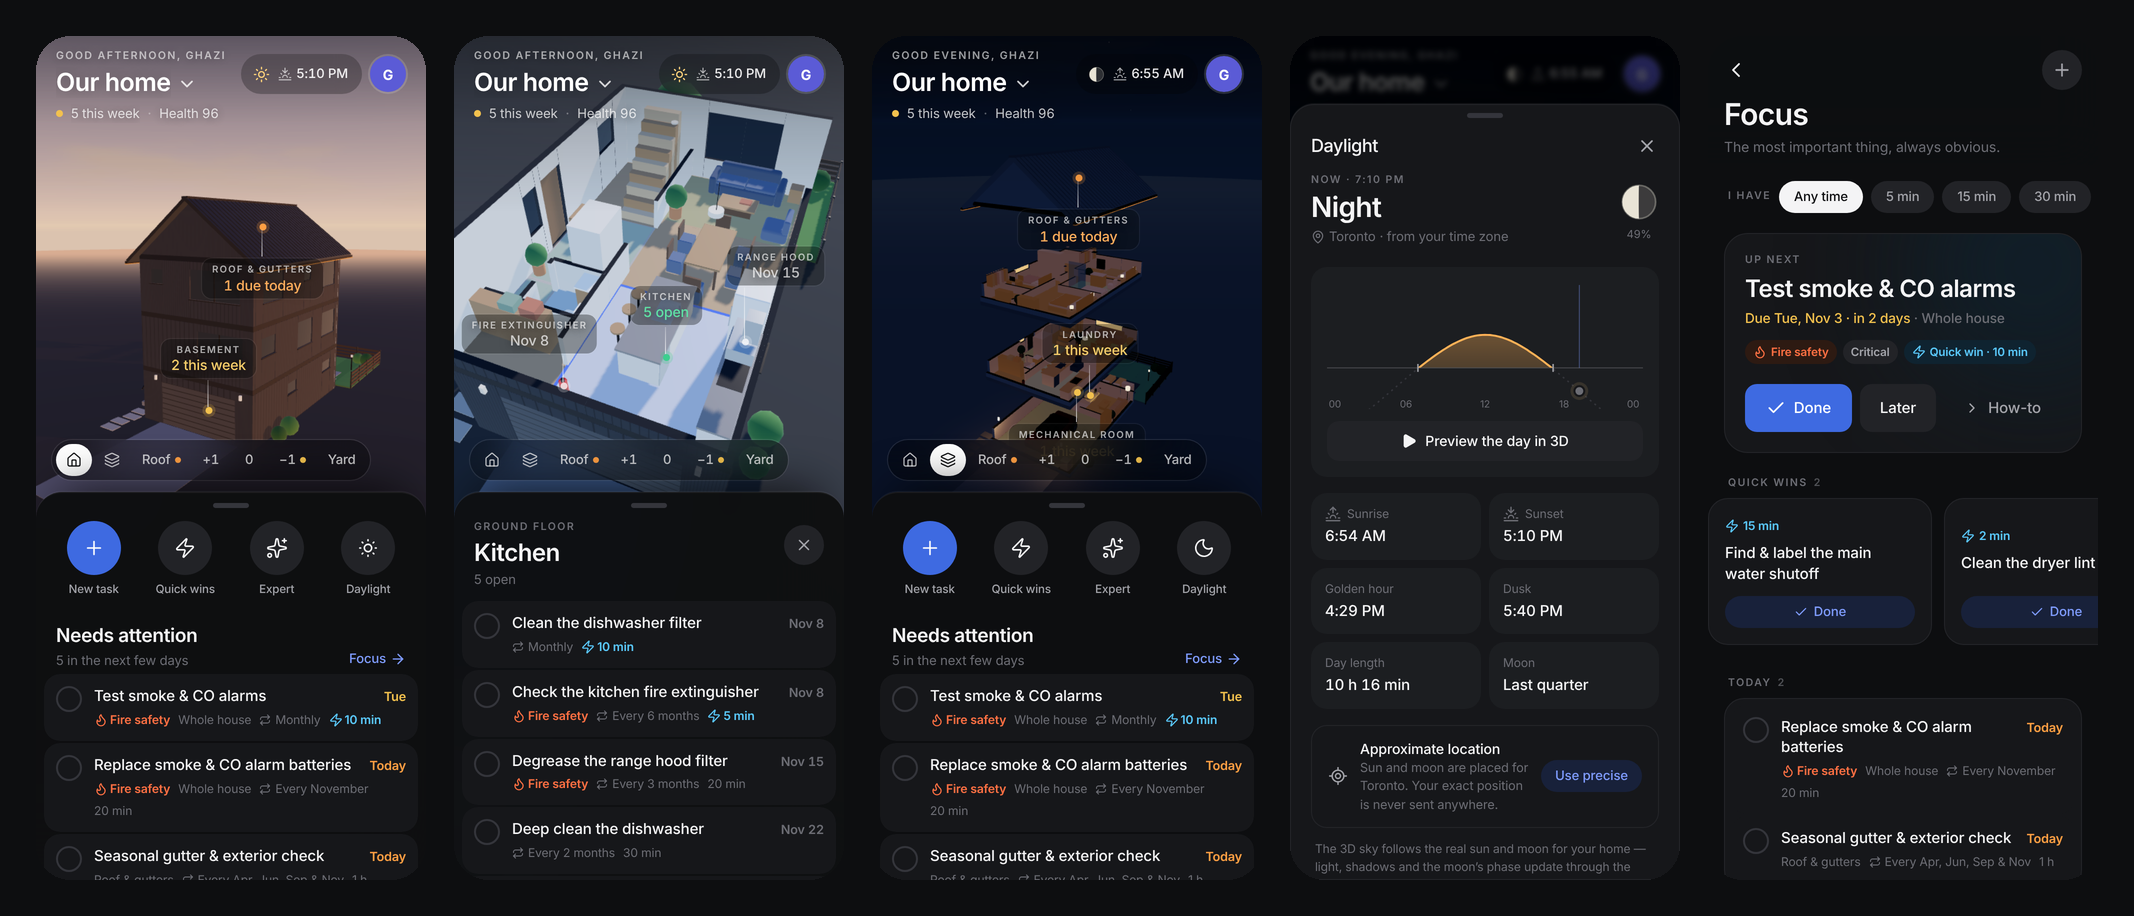
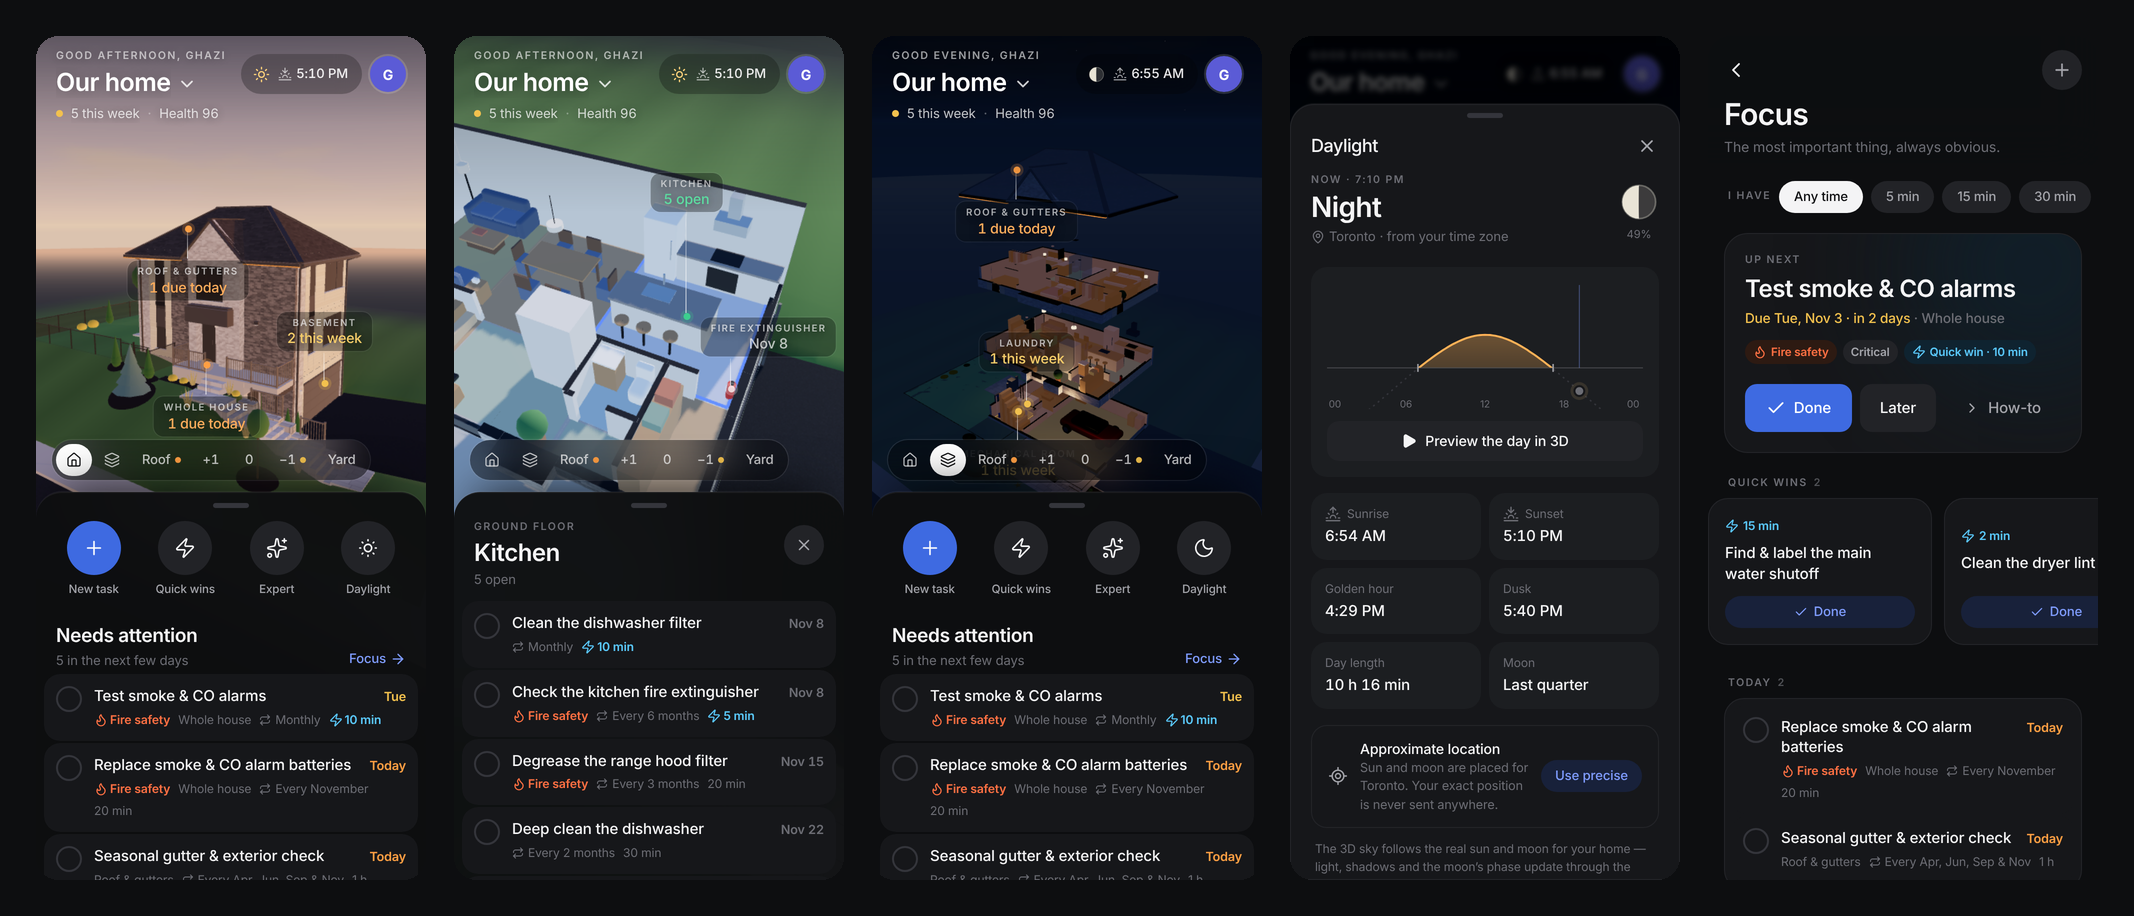
Lighter scene without a GPU, and fresh screenshots
- When WebGL runs in software (SwiftShader, llvmpipe), render with the
  lightest settings; development screenshots can opt out with ?gpu.
- Update the README screenshots for the new exterior.

Claude-Session: https://claude.ai/code/session_012rQnovedizQZvAiSkhXpMn

Changed region(s): [[0.0, 0.0306, 0.4021, 0.5502], [0.433, 0.214, 0.5567, 0.4891], [0.4948, 0.5197, 0.5258, 0.5502]]

diff --git a/src/client/scene/HouseStage.tsx b/src/client/scene/HouseStage.tsx
@@ -10,18 +10,32 @@ import type { SceneView } from './layout';
 
 const HouseScene = lazy(() => import('./HouseScene'));
 
-let webglSupport: boolean | null = null;
+let probe: { webgl: boolean; software: boolean } | null = null;
+
+/** Checks once whether WebGL exists, and whether it is drawn in software (no GPU). */
+function probeWebGL(): { webgl: boolean; software: boolean } {
+  if (probe) return probe;
+  probe = { webgl: false, software: false };
+  try {
+    const canvas = document.createElement('canvas');
+    const gl = (canvas.getContext('webgl2') ?? canvas.getContext('webgl')) as WebGLRenderingContext | null;
+    if (gl) {
+      probe.webgl = true;
+      const info = gl.getExtension('WEBGL_debug_renderer_info');
+      const renderer = String(gl.getParameter(info ? info.UNMASKED_RENDERER_WEBGL : gl.RENDERER) ?? '');
+      probe.software = /swiftshader|llvmpipe|softpipe|software|basic render/i.test(renderer);
+      // Screenshots taken in development (in software) can still ask for the full settings.
+      if (import.meta.env.DEV && new URLSearchParams(window.location.search).has('gpu')) probe.software = false;
+      gl.getExtension('WEBGL_lose_context')?.loseContext();
+    }
+  } catch {
+    probe.webgl = false;
+  }
+  return probe;
+}
 
 export function supportsWebGL(): boolean {
-  if (webglSupport === null) {
-    try {
-      const canvas = document.createElement('canvas');
-      webglSupport = Boolean(canvas.getContext('webgl2') ?? canvas.getContext('webgl'));
-    } catch {
-      webglSupport = false;
-    }
-  }
-  return webglSupport;
+  return probeWebGL().webgl;
 }
 
 /** Starts downloading the 3D chunk early (e.g. while the user signs in). */
@@ -87,7 +101,8 @@ export function HouseStage(props: HouseSceneProps) {
   return (
     <SceneBoundary fallback={<StageFallback {...props} />}>
       <Suspense fallback={<StageFallback {...props} illustrated={false} />}>
-        <HouseScene {...props} />
+        {/* Without a GPU every pixel is drawn on the CPU: keep to the lightest settings. */}
+        <HouseScene {...props} quality={probeWebGL().software ? 'saver' : props.quality} />
       </Suspense>
     </SceneBoundary>
   );
